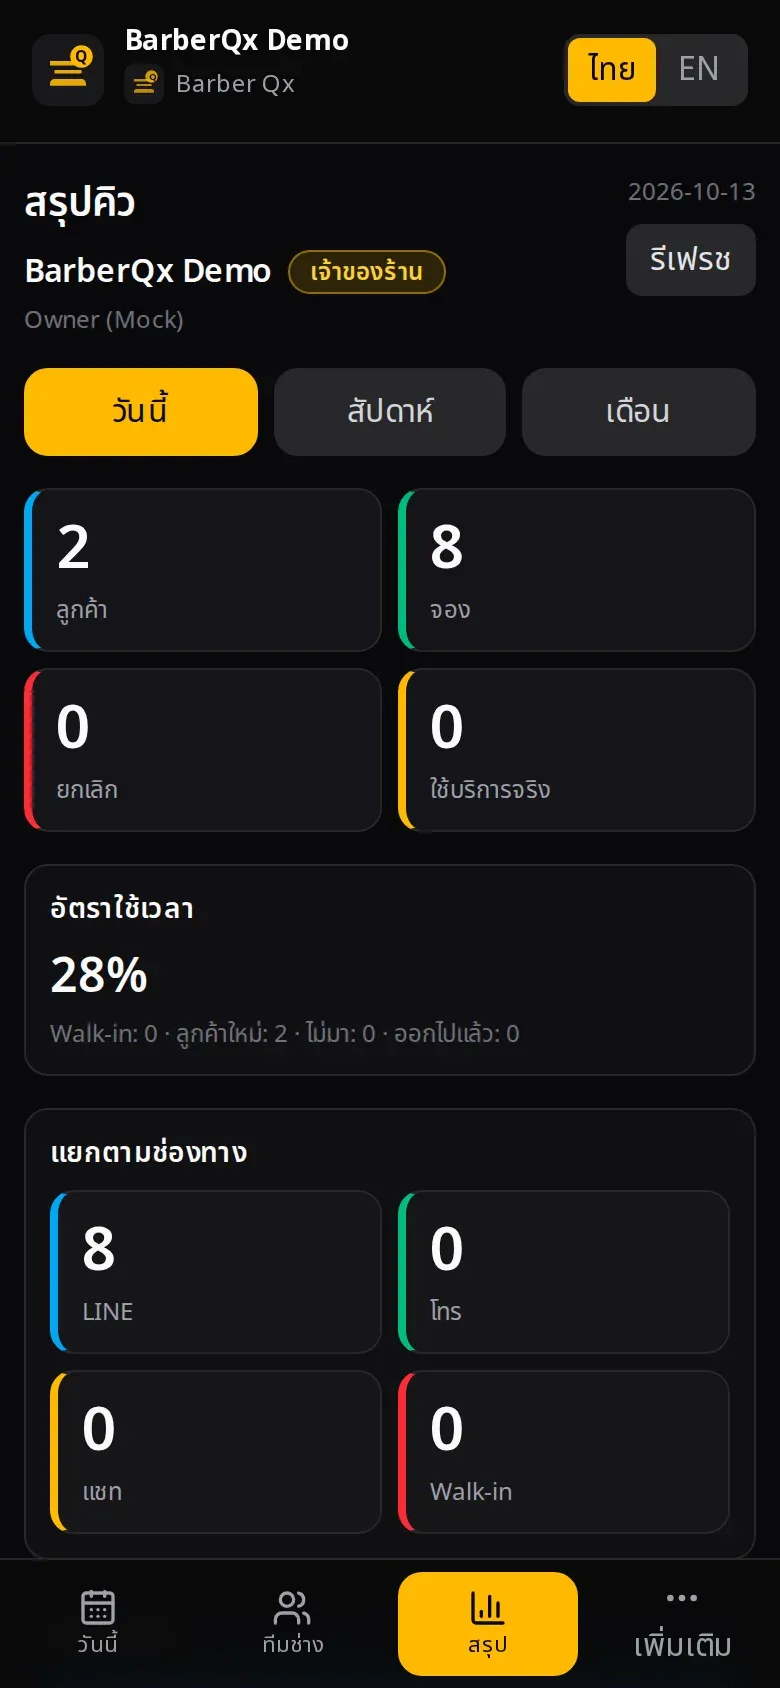
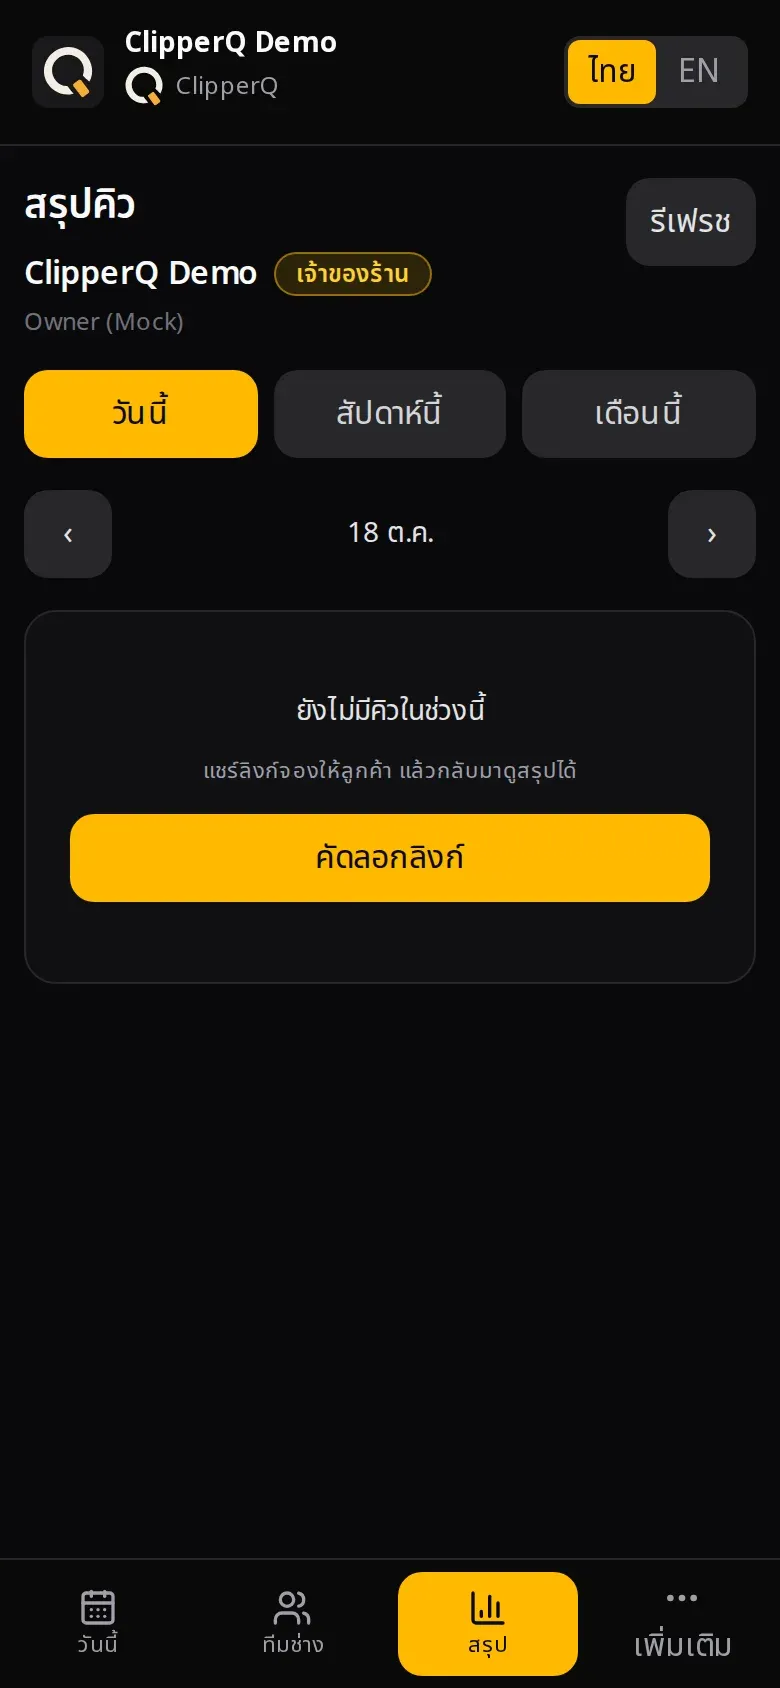
ClipperQ Demo on salepage marketing screens and hero photos
Merge main ClipperQ branding, re-capture marketing screens (incl.
choose-booking-v3 / admin-queue-board) with ClipperQ Demo, re-composite
hand-phone heroes, patch booking-success flat screen and warp/inpaint
photoreal hero phone UI text, delete unused hero-phone-hand.png.

diff --git a/src/components/marketing/mockups/CustomerJourneyMockups.tsx b/src/components/marketing/mockups/CustomerJourneyMockups.tsx
@@ -52,7 +52,7 @@ export function CustomerStepPhone({
         screen={screen}
         fluid
         // Step 1 asset already has a tall status-bar pad; safeTop's pt+object-cover
-        // was cropping glyph tops off BarberQx Demo. Steps 2–3 keep safeTop.
+        // was cropping glyph tops off ClipperQ Demo. Steps 2–3 keep safeTop.
         safeTop={step !== 1}
         className="mx-auto w-full max-w-[270px]"
       />

diff --git a/scripts/composite-hero-phone-screens.py b/scripts/composite-hero-phone-screens.py
@@ -1,9 +1,9 @@
 #!/usr/bin/env python3
 """
-Composite a real BarberQx mobile screenshot into the hero photo phone screens.
+Composite a real ClipperQ mobile screenshot into the hero photo phone screens.
 
-Source screen: public/marketing/screens/queue-ticket.webp
-  (customer booking-confirmed — Thai, demo shop / dummy name)
+Source screen: public/marketing/screens/booking-success-screen.png
+  (booking-success B2 flat screen — Thai, ClipperQ Demo)
 
 Usage:
   python3 scripts/composite-hero-phone-screens.py
@@ -21,7 +21,7 @@ from PIL import Image
 
 ROOT = Path(__file__).resolve().parents[1]
 PHOTOS = ROOT / "public/marketing/photos"
-SCREEN = ROOT / "public/marketing/screens/queue-ticket.webp"
+SCREEN = ROOT / "public/sale/booking-success-screen.png"
 
 # Phone screen quads (TL, TR, BR, BL) in full-image pixel coords.
 # Tuned to the AI barbershop hero plates — corners sit just under the bezel
